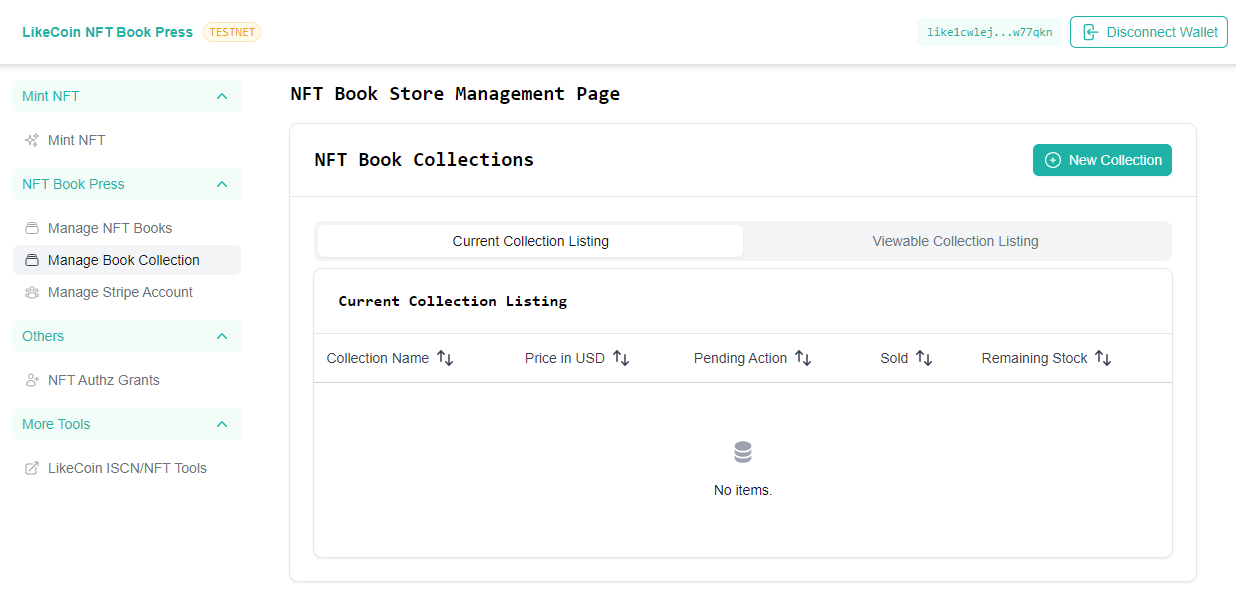
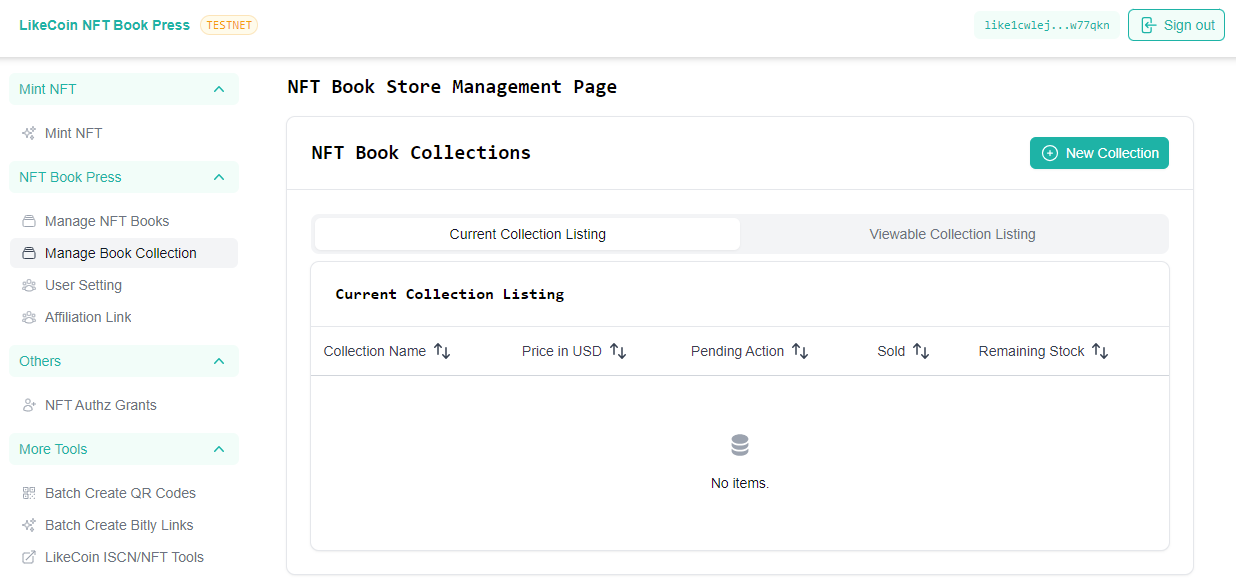
GITBOOK-4667: Affiliation Link

diff --git a/depub/nft-book-press/affiliation-link.md b/depub/nft-book-press/affiliation-link.md
@@ -1,4 +1,27 @@
+---
+description: Generate a bookstore Affiliation Link for sales promotion
+---
+
 # Affiliation Link
 
-##
+Go to the [LikeCoin NFT Book Press](https://likecoin.github.io/nft-book-press/) website, click "Sign in" in the upper right corner to connect to your wallet, the click "Affiliation Link".
 
+### Generate Affiliation Links
+
+Enter the NFT Class ID or Collection ID in the Product ID field.
+
+<figure><img src="../../.gitbook/assets/Affiliation Link 1.png" alt=""><figcaption><p>Enter the NFT Class ID or Collection ID in the Product ID field</p></figcaption></figure>
+
+In "Link Settings", choose the link style:
+
+* Use Liker Land Link (Product Page) - Link to the product page on the Liker Land website
+* Direct Link (Stripe) - Stripe purchase link
+* Custom Link - Custom link If needed
+
+You can continue to set up Custom Channels and Query Parameters. Once done, click “Generate.”
+
+<figure><img src="../../.gitbook/assets/Affiliation Link 2.png" alt=""><figcaption><p>Link Settings</p></figcaption></figure>
+
+Successfully generate affiliation links for various bookstores.
+
+<figure><img src="../../.gitbook/assets/Affiliation Link 3.png" alt=""><figcaption><p>Affiliation links generated</p></figcaption></figure>

diff --git a/depub/nft-book-press/README.md b/depub/nft-book-press/README.md
@@ -22,7 +22,7 @@ and other follow up actions:
 
 4. [Manage NFT books](nft-book-store.md)
 5. [Manage Book Collection](collection.md)
-6. [NFT Book Press User Setting](user-setting.md)
+6. [NFT Book Press User Setting](settings.md)
 7. [ebooks Replenishment](replenishment.md)
 8. [Creator’s Introduction on Liker Land BookStore](./#creators-introduction)
 9. [Transfer ebook or Batch send NFT to more than one wallet](./#transfer-nft-ebook-or-batch-send-nft-to-more-than-one-wallet)
@@ -198,8 +198,8 @@ Physical Goods - After selecting “Includes physical good that requires shippin
 
 Click to start connecting to the Stripe account, see details:
 
-{% content-ref url="user-setting.md" %}
-[user-setting.md](user-setting.md)
+{% content-ref url="settings.md" %}
+[settings.md](settings.md)
 {% endcontent-ref %}
 
 <figure><img src="../../.gitbook/assets/NFT Book Press 27.png" alt=""><figcaption><p>Connect to a Stripe Account</p></figcaption></figure>
@@ -286,8 +286,8 @@ You can continue to:
 
 ## Manage User Setting
 
-{% content-ref url="user-setting.md" %}
-[user-setting.md](user-setting.md)
+{% content-ref url="settings.md" %}
+[settings.md](settings.md)
 {% endcontent-ref %}
 
 ## Creator’s Introduction

diff --git a/depub/nft-book-press/nft-book-store.md b/depub/nft-book-press/nft-book-store.md
@@ -6,7 +6,7 @@ description: Managing Published ebooks
 
 After the book is published, if you would like to understand the sales overview or make more settings, you can use the Manage NFT Books. In addition to the settings for listing ebooks, it also provides various additional management functions.
 
-Go to the [LikeCoin NFT Book Press](https://likecoin.github.io/nft-book-press/) website, click "Connect Wallet" in the upper right corner to connect to your wallet, then click "Manage NFT Books".
+Go to the [LikeCoin NFT Book Press](https://likecoin.github.io/nft-book-press/) website, click "Sign in" in the upper right corner to connect to your wallet, then click "Manage NFT Books".
 
 ### NFT Book Listing - Current Listing <a href="#nft-book-listing-current-listing" id="nft-book-listing-current-listing"></a>
 

diff --git a/depub/nft-book-press/settings.md b/depub/nft-book-press/settings.md
@@ -4,7 +4,7 @@ description: Add or modify user settings and join the Affiliation Program
 
 # User Setting
 
-Go to the [LikeCoin NFT Book Press](https://likecoin.github.io/nft-book-press/) website, click "Connect Wallet" in the upper right corner to connect to your wallet, the click "User Setting".
+Go to the [LikeCoin NFT Book Press](https://likecoin.github.io/nft-book-press/) website, click "Sign in" in the upper right corner to connect to your wallet, the click "User Setting".
 
 If the Stripe account is not set up, it will display “No.” It is recommended to complete the Book Affiliation Program and Stripe Connect settings one by one to receive book sale payments and email notifications.
 

diff --git a/depub/nft-book-press/collection.md b/depub/nft-book-press/collection.md
@@ -6,7 +6,7 @@ description: Set up NFT eBook bundle sales
 
 NFT Book Collection combine multiple NFT eBooks into a bundle for sale, suitable for books series or various promotions.
 
-Go to the [LikeCoin NFT Book Press](https://likecoin.github.io/nft-book-press/) website, click "Connect Wallet" in the upper right corner to connect to your wallet, the click "Manage Book Collection".
+Go to the [LikeCoin NFT Book Press](https://likecoin.github.io/nft-book-press/) website, click "Sign in" in the upper right corner to connect to your wallet, the click "Manage Book Collection".
 
 ### NFT Book Collections <a href="#nft-book-collections" id="nft-book-collections"></a>
 

diff --git a/SUMMARY.md b/SUMMARY.md
@@ -91,7 +91,7 @@
 * [Publish ebook](depub/nft-book-press/README.md)
   * [Manage ebooks](depub/nft-book-press/nft-book-store.md)
   * [Manage Book Collection](depub/nft-book-press/collection.md)
-  * [User Setting](depub/nft-book-press/user-setting.md)
+  * [User Setting](depub/nft-book-press/settings.md)
   * [Affiliation Link](depub/nft-book-press/affiliation-link.md)
   * [NFT eBooks Replenishment](depub/nft-book-press/replenishment.md)
   * [Modify NFT eBook](depub/nft-book-press/modify-nft-ebook.md)
